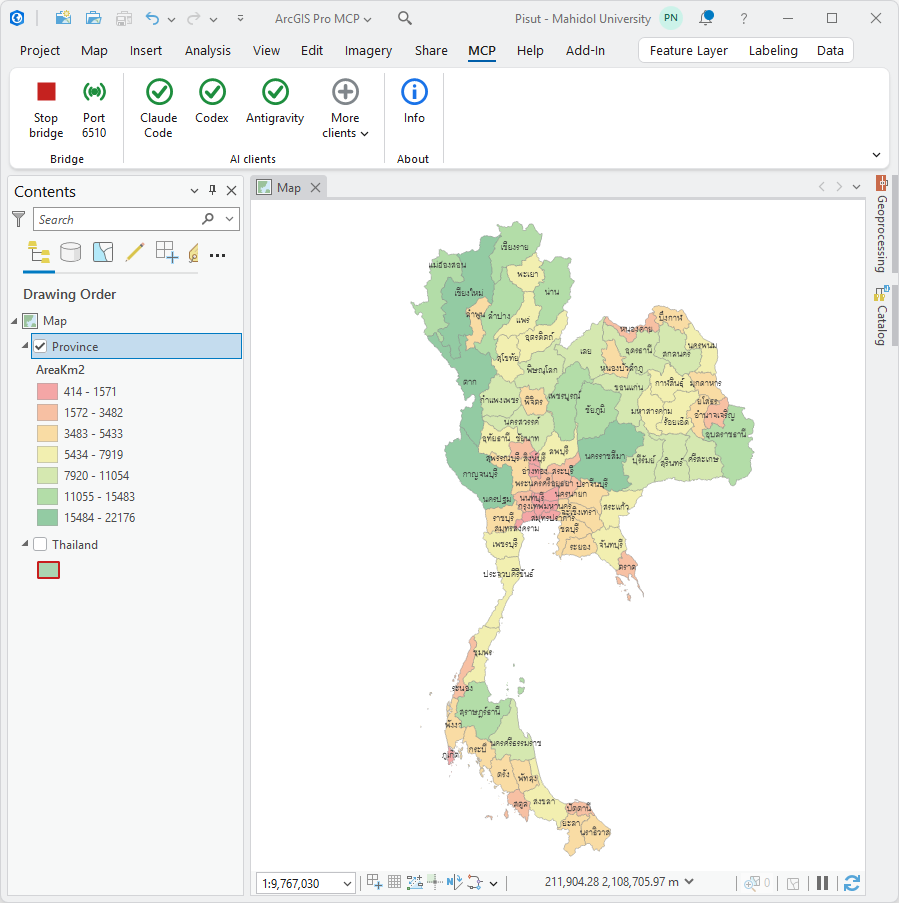
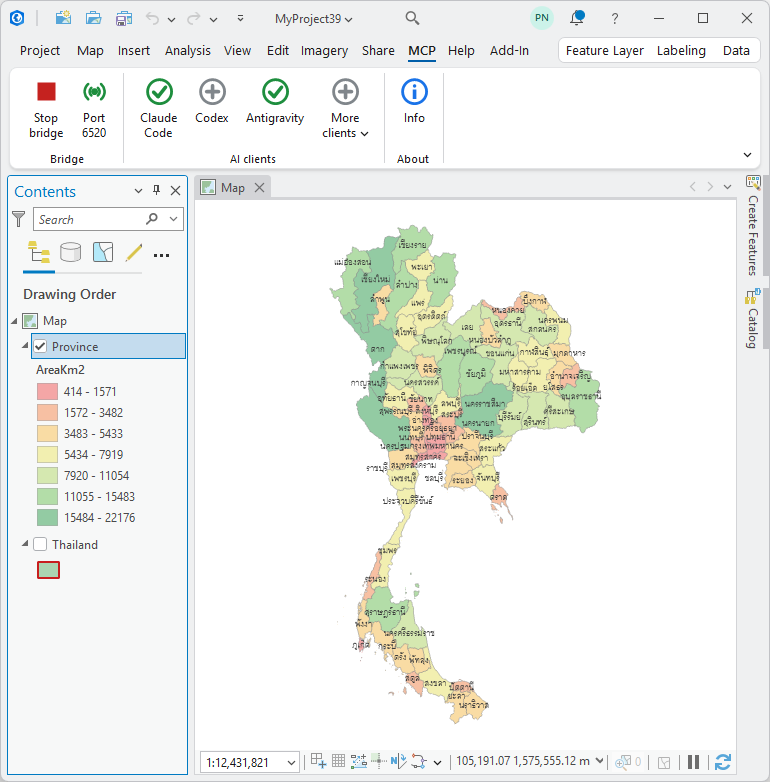
Retake the ribbon screenshot, which still showed Port 6510
The README's picture of the MCP tab was taken before the Status caption became
the MCP port, so it advertised the legacy TCP bridge to everyone who scrolled
past. A screenshot that disagrees with the add-in is worse than none: a reader
trusts the picture over the prose.

Retaken from a live session rather than edited -- doctoring the digits would
have produced a screenshot of something that does not exist. Same map, same
graduated symbology on AreaKm2, same seven classes, now with the whole country
in frame and the caption reading Port 6520.

scripts/capture_ribbon.ps1 is how it was taken and how to take it again. It
captures the ArcGIS Pro window alone, and throws if that window is not in
front rather than quietly saving a picture of whatever is -- which it did once
while I was writing it, and produced a very convincing screenshot of VS Code.

demo.gif needs no change: its frames come from export_map_view and contain no
ribbon. add-in-manager.png shows the security settings and names no port.

Changed region(s): [[0.0, 0.0, 1.0, 1.0], [0.9662, 0.0, 0.9974, 0.0307]]

diff --git a/CONTRIBUTING.md b/CONTRIBUTING.md
@@ -53,6 +53,19 @@ written in the wrong shape does not fail — it is **ignored**, and the button
 goes green while nothing works. That mistake has already cost this project one
 release.
 
+## The ribbon screenshot
+
+`docs/images/mcp-menu.png` shows the MCP tab, and a reader trusts the picture
+over the prose — it once showed `Port 6510` for weeks after the caption became
+the MCP port. Retake it whenever the ribbon changes:
+
+```powershell
+.\scripts\capture_ribbon.ps1 -Delay 10
+```
+
+Click the ArcGIS Pro window while it counts down. It captures that window only,
+and refuses rather than saving if something else is in front.
+
 ## Style
 
 - `.editorconfig` covers indentation and line endings; `.gitattributes` keeps
